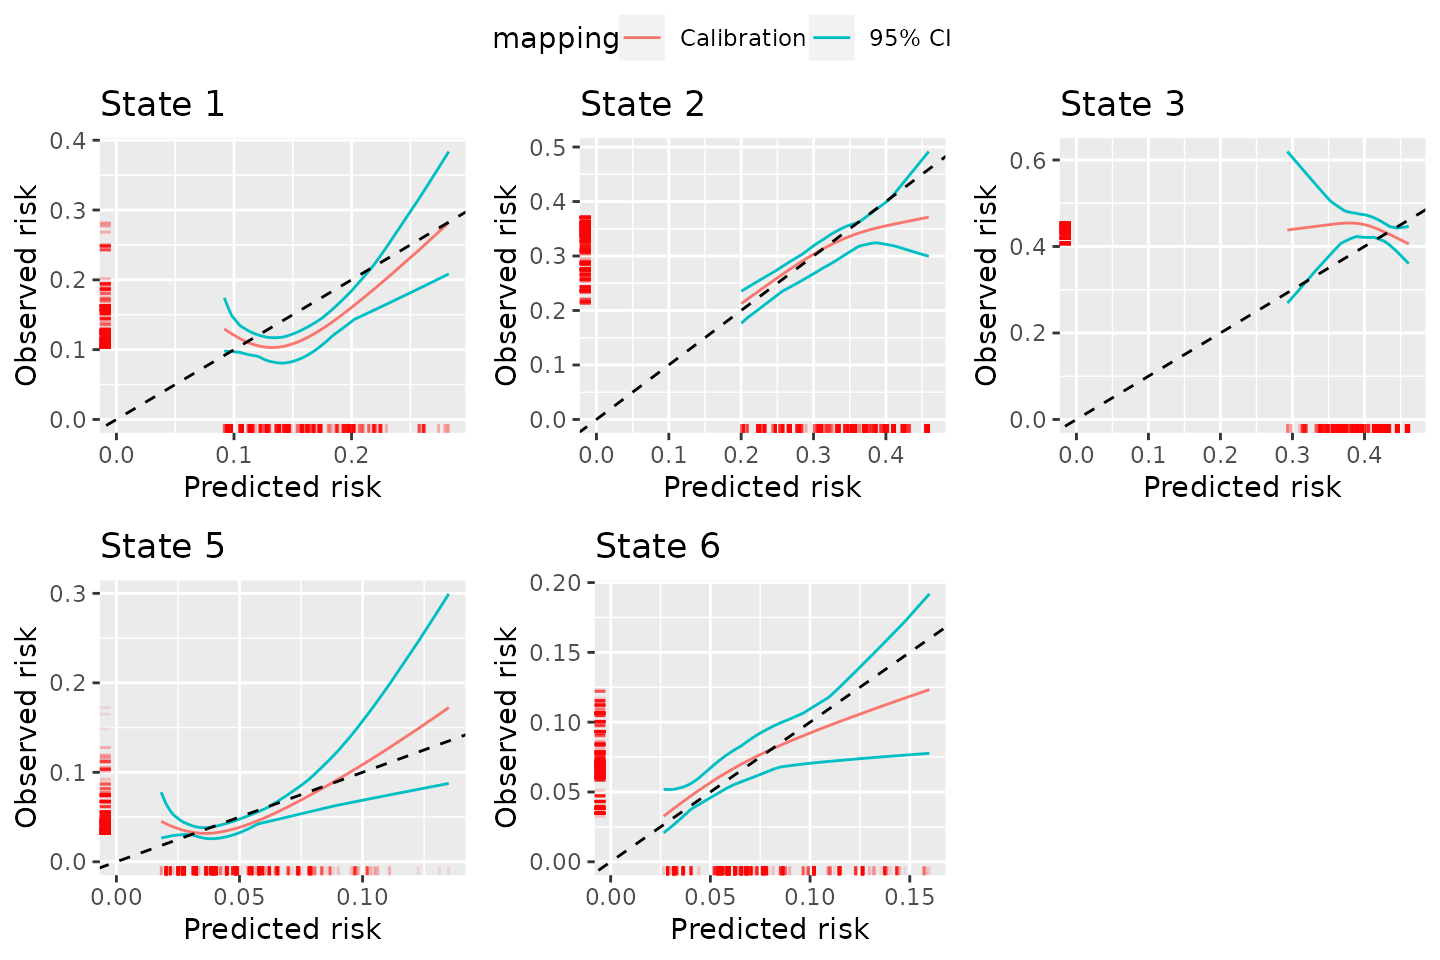
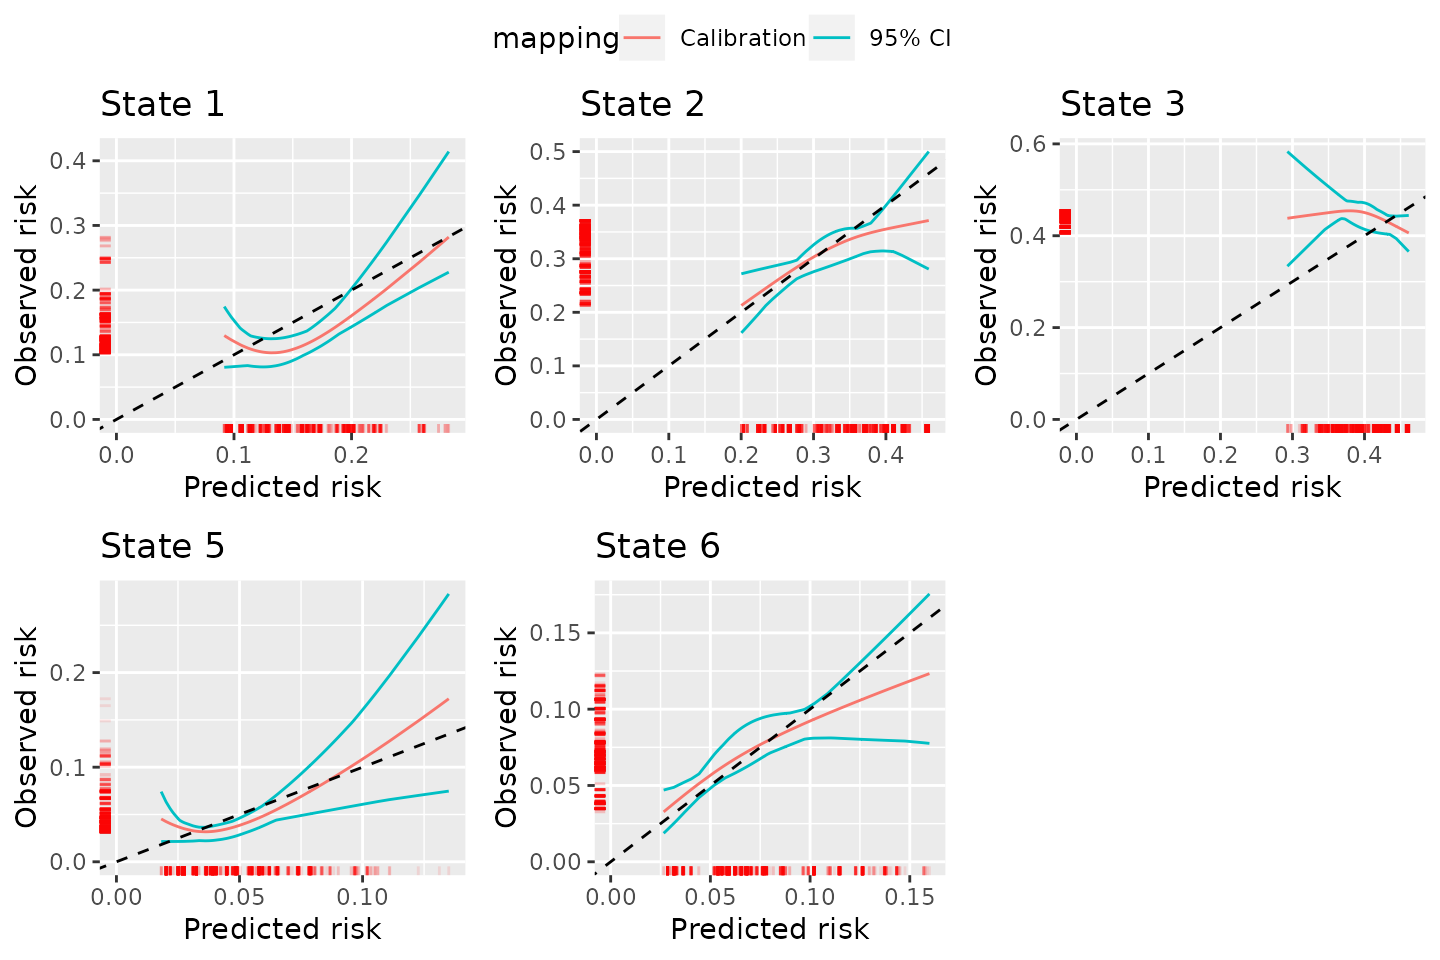
Deploying to gh-pages from @ alexpate30/calibmsm@94d573015d3b4ff13095b676da2bd6dd2c052ae2 🚀

diff --git a/reference/calib_blr.html b/reference/calib_blr.html
@@ -264,38 +264,38 @@ in the vignette XXXX.</p>
 <span class="r-out co"><span class="r-pr">#&gt;</span>   .. ..$ id       : int [1:1778] 2 4 5 7 10 13 14 16 18 19 ...</span>
 <span class="r-out co"><span class="r-pr">#&gt;</span>   .. ..$ pred     : num [1:1778] 0.114 0.1384 0.1233 0.0974 0.1137 ...</span>
 <span class="r-out co"><span class="r-pr">#&gt;</span>   .. ..$ obs      : num [1:1778] 0.11 0.104 0.105 0.124 0.11 ...</span>
-<span class="r-out co"><span class="r-pr">#&gt;</span>   .. ..$ obs.lower: num [1:1778] 0.0883 0.0825 0.0834 0.0872 0.0883 ...</span>
-<span class="r-out co"><span class="r-pr">#&gt;</span>   .. ..$ obs.upper: num [1:1778] 0.131 0.124 0.124 0.165 0.131 ...</span>
+<span class="r-out co"><span class="r-pr">#&gt;</span>   .. ..$ obs.lower: num [1:1778] 0.0876 0.0785 0.0827 0.0863 0.0876 ...</span>
+<span class="r-out co"><span class="r-pr">#&gt;</span>   .. ..$ obs.upper: num [1:1778] 0.13 0.125 0.125 0.17 0.13 ...</span>
 <span class="r-out co"><span class="r-pr">#&gt;</span>   ..$ state2:'data.frame':	1778 obs. of  5 variables:</span>
 <span class="r-out co"><span class="r-pr">#&gt;</span>   .. ..$ id       : int [1:1778] 2 4 5 7 10 13 14 16 18 19 ...</span>
 <span class="r-out co"><span class="r-pr">#&gt;</span>   .. ..$ pred     : num [1:1778] 0.232 0.184 0.161 0.212 0.232 ...</span>
 <span class="r-out co"><span class="r-pr">#&gt;</span>   .. ..$ obs      : num [1:1778] 0.17 0.186 0.176 0.179 0.17 ...</span>
-<span class="r-out co"><span class="r-pr">#&gt;</span>   .. ..$ obs.lower: num [1:1778] 0.123 0.156 0.144 0.143 0.123 ...</span>
-<span class="r-out co"><span class="r-pr">#&gt;</span>   .. ..$ obs.upper: num [1:1778] 0.217 0.22 0.21 0.207 0.217 ...</span>
+<span class="r-out co"><span class="r-pr">#&gt;</span>   .. ..$ obs.lower: num [1:1778] 0.12 0.159 0.143 0.144 0.12 ...</span>
+<span class="r-out co"><span class="r-pr">#&gt;</span>   .. ..$ obs.upper: num [1:1778] 0.221 0.218 0.209 0.212 0.221 ...</span>
 <span class="r-out co"><span class="r-pr">#&gt;</span>   ..$ state3:'data.frame':	1778 obs. of  5 variables:</span>
 <span class="r-out co"><span class="r-pr">#&gt;</span>   .. ..$ id       : int [1:1778] 2 4 5 7 10 13 14 16 18 19 ...</span>
 <span class="r-out co"><span class="r-pr">#&gt;</span>   .. ..$ pred     : num [1:1778] 0.0844 0.0758 0.0551 0.0615 0.0844 ...</span>
 <span class="r-out co"><span class="r-pr">#&gt;</span>   .. ..$ obs      : num [1:1778] 0.1249 0.1167 0.0919 0.1001 0.1248 ...</span>
-<span class="r-out co"><span class="r-pr">#&gt;</span>   .. ..$ obs.lower: num [1:1778] 0.0969 0.0898 0.0461 0.0587 0.0969 ...</span>
-<span class="r-out co"><span class="r-pr">#&gt;</span>   .. ..$ obs.upper: num [1:1778] 0.158 0.15 0.135 0.139 0.158 ...</span>
+<span class="r-out co"><span class="r-pr">#&gt;</span>   .. ..$ obs.lower: num [1:1778] 0.103 0.0963 0.0492 0.0636 0.103 ...</span>
+<span class="r-out co"><span class="r-pr">#&gt;</span>   .. ..$ obs.upper: num [1:1778] 0.155 0.143 0.142 0.136 0.155 ...</span>
 <span class="r-out co"><span class="r-pr">#&gt;</span>   ..$ state4:'data.frame':	1778 obs. of  5 variables:</span>
 <span class="r-out co"><span class="r-pr">#&gt;</span>   .. ..$ id       : int [1:1778] 2 4 5 7 10 13 14 16 18 19 ...</span>
 <span class="r-out co"><span class="r-pr">#&gt;</span>   .. ..$ pred     : num [1:1778] 0.233 0.218 0.183 0.221 0.233 ...</span>
 <span class="r-out co"><span class="r-pr">#&gt;</span>   .. ..$ obs      : num [1:1778] 0.243 0.224 0.185 0.228 0.243 ...</span>
-<span class="r-out co"><span class="r-pr">#&gt;</span>   .. ..$ obs.lower: num [1:1778] 0.197 0.188 0.156 0.19 0.197 ...</span>
-<span class="r-out co"><span class="r-pr">#&gt;</span>   .. ..$ obs.upper: num [1:1778] 0.279 0.249 0.219 0.254 0.279 ...</span>
+<span class="r-out co"><span class="r-pr">#&gt;</span>   .. ..$ obs.lower: num [1:1778] 0.207 0.195 0.157 0.198 0.207 ...</span>
+<span class="r-out co"><span class="r-pr">#&gt;</span>   .. ..$ obs.upper: num [1:1778] 0.281 0.253 0.214 0.257 0.281 ...</span>
 <span class="r-out co"><span class="r-pr">#&gt;</span>   ..$ state5:'data.frame':	1778 obs. of  5 variables:</span>
 <span class="r-out co"><span class="r-pr">#&gt;</span>   .. ..$ id       : int [1:1778] 2 4 5 7 10 13 14 16 18 19 ...</span>
 <span class="r-out co"><span class="r-pr">#&gt;</span>   .. ..$ pred     : num [1:1778] 0.148 0.154 0.143 0.144 0.149 ...</span>
 <span class="r-out co"><span class="r-pr">#&gt;</span>   .. ..$ obs      : num [1:1778] 0.191 0.165 0.222 0.212 0.188 ...</span>
-<span class="r-out co"><span class="r-pr">#&gt;</span>   .. ..$ obs.lower: num [1:1778] 0.165 0.147 0.178 0.174 0.163 ...</span>
-<span class="r-out co"><span class="r-pr">#&gt;</span>   .. ..$ obs.upper: num [1:1778] 0.217 0.184 0.262 0.25 0.213 ...</span>
+<span class="r-out co"><span class="r-pr">#&gt;</span>   .. ..$ obs.lower: num [1:1778] 0.164 0.148 0.179 0.174 0.163 ...</span>
+<span class="r-out co"><span class="r-pr">#&gt;</span>   .. ..$ obs.upper: num [1:1778] 0.218 0.183 0.268 0.252 0.214 ...</span>
 <span class="r-out co"><span class="r-pr">#&gt;</span>   ..$ state6:'data.frame':	1778 obs. of  5 variables:</span>
 <span class="r-out co"><span class="r-pr">#&gt;</span>   .. ..$ id       : int [1:1778] 2 4 5 7 10 13 14 16 18 19 ...</span>
 <span class="r-out co"><span class="r-pr">#&gt;</span>   .. ..$ pred     : num [1:1778] 0.189 0.23 0.335 0.264 0.189 ...</span>
 <span class="r-out co"><span class="r-pr">#&gt;</span>   .. ..$ obs      : num [1:1778] 0.207 0.254 0.316 0.28 0.207 ...</span>
-<span class="r-out co"><span class="r-pr">#&gt;</span>   .. ..$ obs.lower: num [1:1778] 0.184 0.226 0.279 0.254 0.184 ...</span>
-<span class="r-out co"><span class="r-pr">#&gt;</span>   .. ..$ obs.upper: num [1:1778] 0.231 0.28 0.354 0.302 0.231 ...</span>
+<span class="r-out co"><span class="r-pr">#&gt;</span>   .. ..$ obs.lower: num [1:1778] 0.187 0.229 0.283 0.256 0.187 ...</span>
+<span class="r-out co"><span class="r-pr">#&gt;</span>   .. ..$ obs.upper: num [1:1778] 0.231 0.279 0.354 0.305 0.231 ...</span>
 <span class="r-out co"><span class="r-pr">#&gt;</span>  $ metadata:List of 8</span>
 <span class="r-out co"><span class="r-pr">#&gt;</span>   ..$ valid.transitions   : num [1:6] 1 2 3 4 5 6</span>
 <span class="r-out co"><span class="r-pr">#&gt;</span>   ..$ assessed.transitions: num [1:6] 1 2 3 4 5 6</span>

diff --git a/articles/Comparison-with-graphical-calibration-curves-in-competing-risks-setting.html b/articles/Comparison-with-graphical-calibration-curves-in-competing-risks-setting.html
@@ -223,11 +223,11 @@ the pseudo-value approach, implemented through
 <span>                 n.pctls <span class="op">=</span> <span class="fl">9</span>,</span>
 <span>                 CI <span class="op">=</span> <span class="fl">95</span>,</span>
 <span>                 CI.type <span class="op">=</span> <span class="st">"parametric"</span><span class="op">)</span></span>
-<span><span class="co">#&gt; [1] "Calculate pseudo values for state =  1 2023-07-26 09:15:53.03637"</span></span>
-<span><span class="co">#&gt; [1] "Calculate pseudo values for state =  2 2023-07-26 09:19:38.247894"</span></span>
-<span><span class="co">#&gt; [1] "Calculate pseudo values for state =  3 2023-07-26 09:23:22.868602"</span></span>
-<span><span class="co">#&gt; [1] "Calculate pseudo values for state =  5 2023-07-26 09:27:08.74633"</span></span>
-<span><span class="co">#&gt; [1] "Calculate pseudo values for state =  6 2023-07-26 09:30:51.592457"</span></span>
+<span><span class="co">#&gt; [1] "Calculate pseudo values for state =  1 2023-07-26 10:06:15.38689"</span></span>
+<span><span class="co">#&gt; [1] "Calculate pseudo values for state =  2 2023-07-26 10:11:02.94345"</span></span>
+<span><span class="co">#&gt; [1] "Calculate pseudo values for state =  3 2023-07-26 10:15:45.186295"</span></span>
+<span><span class="co">#&gt; [1] "Calculate pseudo values for state =  5 2023-07-26 10:20:22.23008"</span></span>
+<span><span class="co">#&gt; [1] "Calculate pseudo values for state =  6 2023-07-26 10:24:52.375872"</span></span>
 <span></span>
 <span><span class="co">### Turn into plot and print</span></span>
 <span><span class="va">plot.calibmsm.pv</span> <span class="op">&lt;-</span> <span class="fu"><a href="https://rdrr.io/r/graphics/plot.default.html" class="external-link">plot</a></span><span class="op">(</span><span class="va">dat.calib.pv</span>, combine <span class="op">=</span> <span class="cn">TRUE</span>, nrow <span class="op">=</span> <span class="fl">2</span>, ncol <span class="op">=</span> <span class="fl">3</span><span class="op">)</span></span></code></pre></div>
